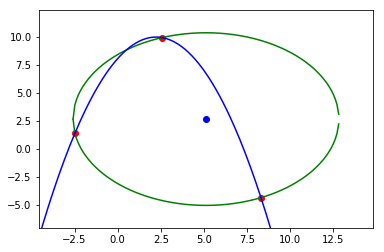
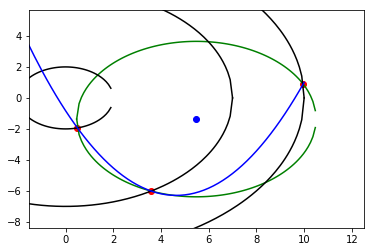
Up to date markdown demo

diff --git a/demo/plottingpoints.md b/demo/plottingpoints.md
@@ -4,7 +4,48 @@
 import matplotlib.pyplot as plt
 import numpy as np
 from math import sqrt, isnan
+from random import uniform, randint
 
+def gen_circle_points(rad_0, rad_1, rad_2, num_sets):
+        points_list = []
+
+        for i in range(num_sets):
+                x0 = uniform(0, rad_0)
+                y0 = sqrt(rad_0**2 - x0**2)
+                x1 = uniform(0, rad_1)
+                y1 = sqrt(rad_1**2 - x1**2)
+                x2 = uniform(0, rad_2)
+                y2 = sqrt(rad_2**2 - x2**2)
+
+                a  = randint(0,1)
+                if a == 1:
+                        y0 = -y0
+
+                b  = randint(0,1)
+                if b == 1:
+                        y1 = -y1
+
+                c  = randint(0,1)
+                if c==1:
+                        y2 = -y2
+
+                points = [(x0, y0), (x1, y1), (x2, y2)]
+                points_list.append(points)
+
+        return points_list
+
+def gen_points(num_sets):
+
+        points_list = []
+
+        for i in range(num_sets):
+                point_set = []
+                for i in range(6):
+                        point_set.append(uniform(-10, 10))
+                points_list.append(point_set)
+
+        return points_list
+    
 def perpline(line, offset):
     x = offset[0] + line[0]/2 #midpoint x
     y = offset[1] + line[1]/2 #midpoint y
@@ -46,29 +87,38 @@ def center(points):
     y, x = C[0], C[1]
     return x, y
 
-def plot(points, cen, r, a, b, c):
+def plot_circle(r, cx, cy, color):
+    xs = []; ys = []
+    x = -r
+    while x <= r:
+       y = sqrt(r ** 2 - x ** 2)
+       xs.append(x+cx); ys.append(y+cy);
+       x += 0.1
+    plt.plot(xs, ys, color=color)
+    ys = [2*cy - y for y in ys]
+    plt.plot(xs, ys, color=color)
+
+def plot(points, cen, r, a, b, c, radii):
     if (r != "N/A"):
         plt.xlim(cen[0] - r-2, cen[0] + r + 2) #circle plus padding
         plt.ylim(cen[1] - r-2, cen[1] + r + 2) #circle plus padding
         plt.autoscale(False)
+        
+    
     #plot points
     plt.plot([x for x, y in points],
-             [y for x, y in points], 'ro')
+             [y for x, y in points], 'ro', color="red")
     
     #plot circle and center
     if (r != "N/A"):
         plt.plot([cen[0]], [cen[1]], 'ro', color="blue")
-
-        xs = []; ys = []
-        x = -r
-        while x <= r:
-            y = sqrt(r ** 2 - x ** 2)
-            xs.append(x+cen[0]); ys.append(y+cen[1]);
-            x += 0.1
-        plt.plot(xs, ys, color="green")
-        ys = [2*cen[1]-y for y in ys]
-        plt.plot(xs, ys, color="green")
+        plot_circle(r, cen[0], cen[1], "green")
+        
+    for r in radii:
+        plot_circle(r, 0, 0, "black")
+        
     plot_quadratic(a, b, c)
+    
     plt.show()
     return
 
@@ -96,31 +146,28 @@ def plot_quadratic(a,b,c):
         y = a * (x ** 2) + b * x + c
         xs.append(x); ys.append(y);
         x += 0.1
-    plt.plot(xs, ys, color="blue")        
+    plt.plot(xs, ys, color="blue")
     return
 
 if __name__ == "__main__":
-    from random import uniform as rand
+    r_1, r_2, r_3 = 2, 7, 10
     for i in range(5): #how many to show (in series)
-        print("="*40)
-        points = ((rand(-10,10),rand(-10,10)),
-                  (rand(-10,10),rand(-10,10)),
-                  (rand(-10,10),rand(-10,10)))
+        points = gen_circle_points(r_1,r_2,r_3,1)[0]
         print("Points: "+str(points))
         cen, r = circle(points)
         print("Center: "+str(cen))
         print("Radius: "+str(r))
         a, b, c = quadratic(points)
-        print("Approx. quadratic equation: {}x^2+{}x+{}".format(round(a,2),round(b,2),round(c,2)))  
-        plot(points, cen, r, a, b, c)
+        print("Quadratic: {}x^2+{}x+{}".format(a,b,c))
+        plot(points, cen, r, a, b, c, (r_1, r_2, r_3))
+        print("="*40)
 
 ```
 
-    ========================================
-    Points: ((7.6108989105313825, 9.214517013713536), (-2.7531581756468837, 2.3335015453326236), (0.49648230279160366, -3.937366642695846))
-    Center: (4.766633714274075, 2.2529137534522503)
-    Radius: 7.520223697465466
-    Approx. quadratic equation: 0.36x^2+-1.11x+-3.48
+    Points: [(0.12941955705908725, -1.9958082518745706), (4.080168541318717, 5.6879016055513025), (0.3473730263614283, -9.993964777832494)]
+    Center: (16.49295218198515, -5.551942339310543)
+    Radius: 16.74548564882021
+    Quadratic: 10.35189260410158x^2+-41.6323296798235x+3.2188411994958024
 
 
 
@@ -128,10 +175,10 @@ if __name__ == "__main__":
 
 
     ========================================
-    Points: ((7.999371175378258, -1.2845517181872363), (-1.1430719461633174, 3.6872871732936936), (-1.966592653023163, 6.920611566044922))
-    Center: (6.819081364625115, 7.436767009433732)
-    Radius: 8.80082293800528
-    Approx. quadratic equation: 0.34x^2+-2.87x+-0.04
+    Points: [(1.6433011747171966, -1.139983003896585), (1.9365257964286404, -6.726802200136884), (1.0359656146589336, 9.946194008023589)]
+    Center: (-3636.5636450601446, -194.89265016578454)
+    Radius: 3643.3624414356505
+    Quadratic: -0.8874961521875869x^2+-15.875953073941808x+27.34561833284421
 
 
 
@@ -139,10 +186,10 @@ if __name__ == "__main__":
 
 
     ========================================
-    Points: ((8.218981057736052, -3.3342046937055203), (4.28972617025611, 6.760352896009888), (-1.4979977611907547, -6.793526420657329))
-    Center: (1.5936946685927742, -0.10106354453926458)
-    Radius: 7.3720839271266625
-    Approx. quadratic equation: -0.51x^2+3.75x+-0.04
+    Points: [(0.9244768569389681, -1.7735113591359506), (1.031138027428899, -6.923637365459722), (5.92319902678863, -8.0570288127231)]
+    Center: (4.2206099401954384, -4.281414624908717)
+    Radius: 4.141747468522376
+    Quadratic: 9.613104687854062x^2+-67.08444988230781x+52.02859839176591
 
 
 
@@ -150,10 +197,10 @@ if __name__ == "__main__":
 
 
     ========================================
-    Points: ((8.31053018031756, -4.382257810924697), (2.5799716505518298, 9.908080227350986), (-2.4787082479737705, 1.3629031516230032))
-    Center: (5.121995577192889, 2.6332828095781875)
-    Radius: 7.706138015455562
-    Approx. quadratic equation: -0.39x^2+1.73x+8.03
+    Points: [(0.5005276048645946, -1.9363553694424256), (3.589592491281918, -6.009561194174869), (9.959920837789113, 0.8944142803948378)]
+    Center: (5.483003932441068, -1.3656675649513952)
+    Radius: 5.015052833725158
+    Quadratic: 0.25396548259908575x^2+-2.3573379502765337x+-0.8200680861035121
 
 
 
@@ -161,12 +208,15 @@ if __name__ == "__main__":
 
 
     ========================================
-    Points: ((9.680052565888502, -3.0211663072216215), (-7.816288575673688, 5.9223945818482555), (5.2136341945094, 2.945665210470832))
-    Center: (-4.338250417108895, -8.859377116621115)
-    Radius: 15.185437892207878
-    Approx. quadratic equation: -0.06x^2+-0.39x+6.72
+    Points: [(0.4842263448002606, -1.9404960311738284), (1.0937498106269727, 6.914022805267095), (0.5520273534753994, 9.984751664463916)]
+    Center: (-23.49881013674431, 4.158676137861525)
+    Radius: 24.74643287471213
+    Quadratic: -297.8629316524044x^2+484.5475568906118x+-166.72973191439578
 
 
 
 ![png](output_0_9.png)
+
+
+    ========================================
 
